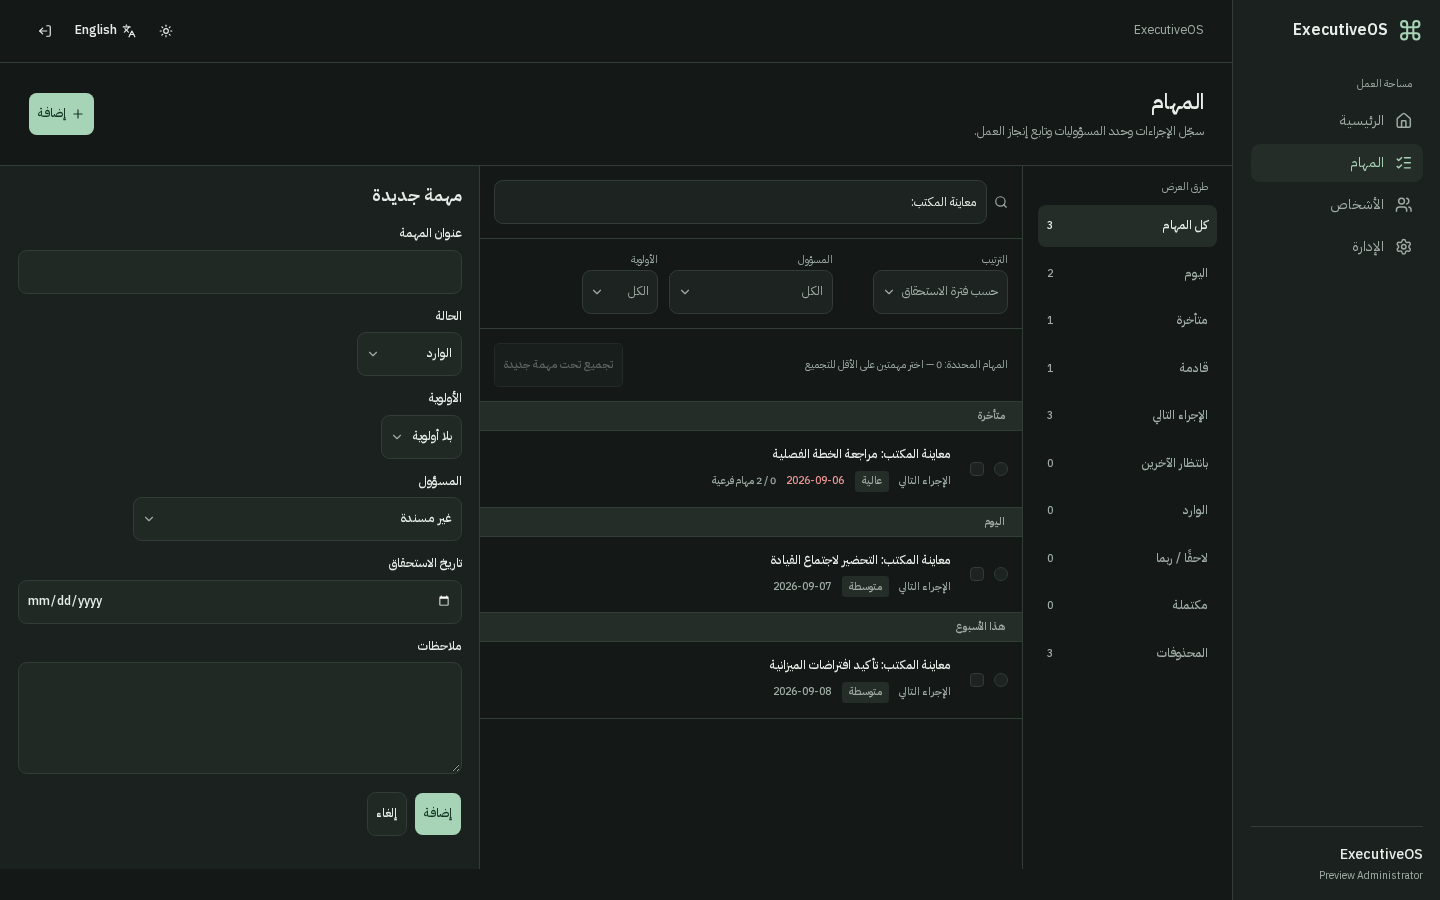
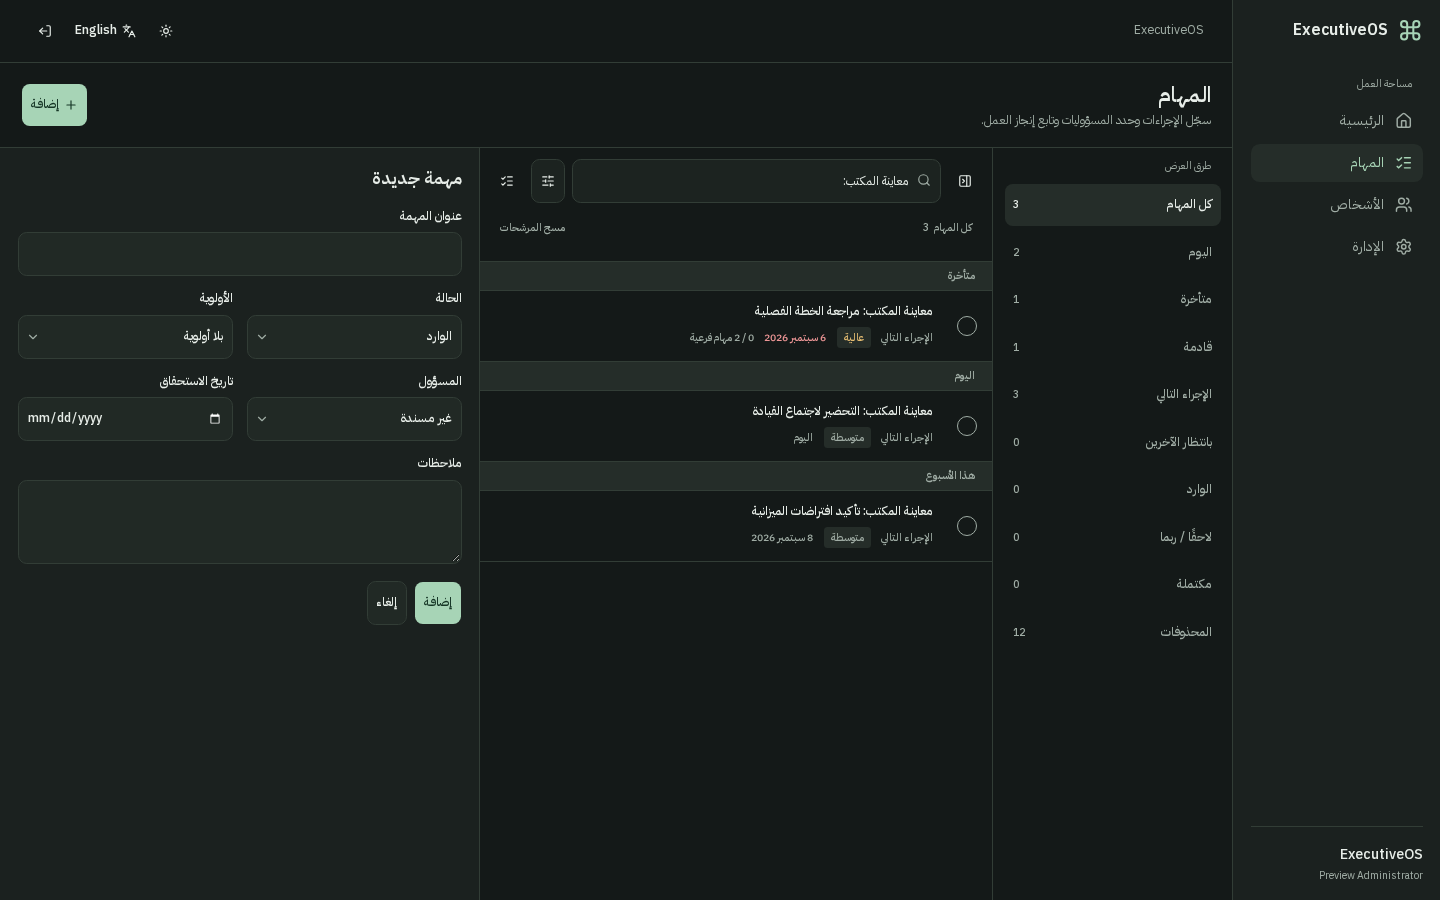
test(ui): cover task UX regressions and record bilingual visual audit

diff --git a/e2e/tasks.spec.ts b/e2e/tasks.spec.ts
@@ -100,7 +100,7 @@ for (const locale of ['en', 'ar'])
     await page
       .locator('aside.entity-detail')
       .getByRole('button', { name: m.common.delete, exact: true })
-      .first()
+      .last()
       .click();
     await page
       .getByRole('dialog')
@@ -149,6 +149,7 @@ test('TASKS-A05 TASKS-B09 group selected tasks through framework selection', asy
   for (const suffix of ['One', 'Two', 'Three'])
     children.push((await api(page, '', 'POST', { title: `${prefix} ${suffix}` })).body.data);
   await page.goto(`/tasks?view=all&q=${encodeURIComponent(prefix)}`);
+  await page.getByRole('button', { name: en.common.select, exact: true }).click();
   for (const child of children)
     await page.getByRole('checkbox', { name: `Select ${child.title}`, exact: true }).click();
   await page.getByRole('button', { name: en.tasks.group, exact: true }).click();
@@ -253,4 +254,119 @@ test('TASKS-B10 TASKS-B15 HOME-B01 assigned work appears in People and Home', as
   await expect(page).toHaveURL(new RegExp(`id=${task.id}`));
   await page.goto('/home');
   await expect(page.getByRole('link', { name: task.title, exact: true })).toBeVisible();
+});
+
+for (const locale of ['en', 'ar']) {
+  test(`EP-B03 EP-B06 EP-B07 EP-B08 EP-B15 EP-B17 filters, touch targets and focus ${locale}`, async ({
+    page,
+  }) => {
+    const m = locale === 'ar' ? ar : en;
+    await login(page, locale);
+    const task = (
+      await api(page, '', 'POST', { title: `UX ${crypto.randomUUID()}`, priority: 'low' })
+    ).body.data;
+    await page.setViewportSize({ width: 390, height: 844 });
+    await page.goto(`/tasks?view=all&q=${encodeURIComponent(task.title)}`);
+    await expect(page.getByRole('button', { name: m.tasks.group, exact: true })).toBeHidden();
+    const toggle = page.getByRole('checkbox', {
+      name: m.tasks.completeNamed.replace('{name}', task.title),
+      exact: true,
+    });
+    const bounds = await toggle.boundingBox();
+    expect(bounds?.width).toBeGreaterThanOrEqual(44);
+    expect(bounds?.height).toBeGreaterThanOrEqual(44);
+    const row = page.locator(`[data-row-id="${task.id}"]`);
+    expect((await row.boundingBox())?.y).toBeLessThan(320);
+    await row.focus();
+    await page.keyboard.press('x');
+    await expect(
+      page.getByRole('checkbox', {
+        name: m.common.selectItem.replace('{name}', task.title),
+        exact: true,
+      }),
+    ).toBeChecked();
+    await page.keyboard.press('Escape');
+    await expect(page).not.toHaveURL(/sel=/);
+    await row.click();
+    await expect(page.getByRole('button', { name: m.common.previous, exact: true })).toBeDisabled();
+    await expect(page.getByRole('button', { name: m.common.next, exact: true })).toBeDisabled();
+    await page.getByRole('button', { name: m.common.close, exact: true }).click();
+    await expect(row).toBeFocused();
+    await page.goto(`/tasks?view=all&priority=urgent&id=${task.id}`);
+    await expect(page.getByText(m.common.outside, { exact: true })).toBeVisible();
+    await page.getByRole('button', { name: m.common.showAll }).click();
+    await expect(page).toHaveURL(new RegExp(`view=all&id=${task.id}`));
+    await page.getByRole('button', { name: m.common.close, exact: true }).click();
+    await page.getByRole('button', { name: m.common.filter, exact: true }).click();
+    await page
+      .getByRole('dialog')
+      .getByLabel(m.tasks.priority, { exact: true })
+      .selectOption('urgent');
+    await page
+      .getByRole('dialog')
+      .getByRole('button', { name: m.common.close, exact: true })
+      .click();
+    await expect(page).toHaveURL(/priority=urgent/);
+    await page.getByRole('button', { name: m.common.clear, exact: true }).first().click();
+    await expect(page).not.toHaveURL(/priority=/);
+    for (const width of [320, 1024, 1280]) {
+      await page.setViewportSize({ width, height: 900 });
+      await page.goto(`/tasks?view=all&id=${task.id}`);
+      await expect(page.getByRole('heading', { name: task.title, exact: true })).toBeVisible();
+      expect(await page.evaluate(() => document.documentElement.scrollWidth > innerWidth)).toBe(
+        false,
+      );
+      if (width >= 1024)
+        expect(
+          (await page.locator('[data-entity-list]').boundingBox())?.width,
+        ).toBeGreaterThanOrEqual(300);
+    }
+  });
+}
+
+test('EP-B10 EP-B11 queued save failure blocks view changes and preserves the draft', async ({
+  page,
+}) => {
+  await login(page, 'en');
+  const task = (await api(page, '', 'POST', { title: `UX save ${crypto.randomUUID()}` })).body.data;
+  await page.goto(`/tasks?view=all&id=${task.id}`);
+  const title = page.getByLabel(en.tasks.title, { exact: true });
+  await title.fill('');
+  await page.getByLabel(en.tasks.description, { exact: true }).click();
+  await expect(page.getByRole('alert').filter({ hasText: en.common.titleRequired })).toBeVisible();
+  await title.fill(`${task.title} edited`);
+  await page.route(`**/api/v1/tasks/${task.id}`, async (route) => {
+    if (route.request().method() === 'PATCH') await route.abort();
+    else await route.continue();
+  });
+  await page.getByLabel(en.tasks.description, { exact: true }).click();
+  await page.getByRole('button', { name: en.tasks.inbox, exact: false }).first().click();
+  await expect(page.getByRole('dialog')).toContainText(en.common.unsaved);
+  await expect(title).toHaveValue(`${task.title} edited`);
+  await page.unroute(`**/api/v1/tasks/${task.id}`);
+  await page
+    .getByRole('dialog')
+    .getByRole('button', { name: en.common.retry, exact: true })
+    .click();
+  await expect(page).toHaveURL(/view=inbox/);
+  expect((await api(page, `/${task.id}`)).body.data.title).toBe(`${task.title} edited`);
+});
+
+test('EP-B01 EP-B02 search keeps typing focus, debounces and follows browser history', async ({
+  page,
+}) => {
+  await login(page, 'en');
+  const title = `UX search ${crypto.randomUUID()}`;
+  await api(page, '', 'POST', { title });
+  await page.goto('/tasks?view=all');
+  const search = page.getByRole('textbox', { name: en.common.search });
+  await search.pressSequentially(title, { delay: 10 });
+  await expect(search).toBeFocused();
+  await expect.poll(() => new URL(page.url()).searchParams.get('q')).toBe(title);
+  await expect(page.locator('[data-row-id]')).toHaveCount(1);
+  await page.locator('[data-row-id]').click();
+  await expect(page).toHaveURL(/id=/);
+  await page.goBack();
+  await expect(search).toHaveValue(title);
+  await expect(page).not.toHaveURL(/id=/);
 });

diff --git a/src/ui/entity/tests/neighbors.test.ts b/src/ui/entity/tests/neighbors.test.ts
@@ -1,0 +1,29 @@
+// @vitest-environment jsdom
+import { it, expect, vi } from 'vitest';
+import { renderHook, act } from '@testing-library/react';
+import { useEntityNeighbors } from '../use-entity-neighbors';
+import type { Entity, ListResult } from '../types';
+it('EP-B13 next at a loaded-page boundary waits for the next page then opens its first row', async () => {
+  const first: Entity = { id: 'first', revision: 1, deletedAt: null, deletedOpId: null };
+  const second: Entity = { ...first, id: 'second' };
+  const fetchMore = vi.fn().mockResolvedValue(undefined);
+  const navigate = vi.fn();
+  const initial: ListResult<Entity> = {
+    items: [first],
+    counts: {},
+    pending: false,
+    error: null,
+    more: true,
+    fetchMore,
+    refetch: vi.fn(),
+  };
+  const { result, rerender } = renderHook(
+    ({ list }) => useEntityNeighbors(list, first.id, navigate),
+    { initialProps: { list: initial } },
+  );
+  await act(async () => result.current.move(1));
+  expect(fetchMore).toHaveBeenCalledOnce();
+  expect(navigate).not.toHaveBeenCalled();
+  rerender({ list: { ...initial, items: [first, second], more: false } });
+  expect(navigate).toHaveBeenCalledWith({ id: second.id }, true);
+});

diff --git a/UX-HANDOFF.md b/UX-HANDOFF.md
@@ -1,0 +1,162 @@
+## Hand-off: Tasks UX foundation
+Status: complete — UX correction pass verified; inherited preview/spec gaps are listed below.
+
+### Plan
+- Inspect real Tasks list, detail and create in English/Arabic at desktop and mobile sizes.
+- Record interaction failures, not just styling preferences, in this hand-off.
+- Add regression scenarios for URL filters, keyboard selection, responsive panels and form feedback.
+- Improve shared entity layout, filtering, selection and navigation before module-specific presentation.
+- Improve Tasks readability, touch targets, property density and validation feedback.
+- Recheck People because it consumes the same framework.
+- Verify focused lint, types, dependency boundaries, PostgreSQL tests and browser workflows.
+- Capture screenshots and deploy the Docker preview; preserve existing records.
+- No migrations, new dependencies, accepted ADR edits or external services.
+
+### Assumptions
+1. This branch starts from feat/tasks-management, the running implementation; main still contains documentation only (docs/10, Implementer procedure §3).
+2. The user's explicit request authorizes UI interaction/layout fixes within existing Tasks and entity-page behaviors. No schema, auth or other escalation-triggering subsystem changes are planned (docs/10, Assumptions versus escalation).
+3. A collapsible views rail and filter sheet implement EP-B07/B08; exact spacing and breakpoint behavior are implementation choices (docs/05, Responsive behavior).
+
+### Baseline findings
+- Shared toolbar spends three rows on search, filters and inactive bulk actions; mobile list content starts too low.
+- Permanent selection and completion checkboxes are adjacent, tiny and visually ambiguous.
+- Shared 240px rail plus 480px panel leaves an unusably narrow list at smaller desktop widths.
+- Clear filters and Show in All retain facet filters; empty state fails to recognize facets.
+- Detail navigation does not disable unavailable neighbors; next-page action fetches without advancing.
+- Task property fields consume excessive vertical space; invalid blank title edits silently fail to save.
+- Group headers repeat under alternate sorting; row titles truncate useful context.
+- Close focus occurs before the mobile list becomes visible; keyboard arrows can leave detail unexpectedly.
+
+### Migrations
+None.
+
+### Confirmed findings and fixes
+| Severity | Finding / source | Change |
+|---|---|---|
+| Major | Two adjacent completion/selection controls and inactive bulk toolbar obscure the primary action (docs/features/entity-pages.md:52; docs/05-ui-guidelines.md:49). | Explicit selection mode; completion hidden during selection; 44px checkbox targets; keyboard x toggles selection. |
+| Major | Mobile filters and view controls consume excessive list space (entity-pages.md:57). | Search plus compact filter/selection controls; facets and views in a Base UI sheet, with active facet count. |
+| Major | Fixed rail/detail widths squeeze the list at small desktop sizes (entity-pages.md:56). | Rail auto-collapses below 1280px; detail uses up to 480px and half the workspace; wider desktops expose a rail toggle. |
+| Major | Clear filters and Show in All retain owner/priority facets (entity-pages.md:46,70). | One shared clear-filter operation clears every registered facet and selection; Show in All retains the requested id. Banner appears inside detail on mobile. |
+| Major | Save failure can be bypassed by view/row/create navigation (entity-pages.md:63). | Framework navigation and application links wait for the save queue and show Retry/Discard on failure; browser unload warns while a save is unresolved. |
+| Major | Save queue's revision can lag completion/reopen or lead rendered detail (tasks.md:46). | Delete uses the newest revision known to the editor or save queue. |
+| Major | Mobile close focuses a hidden list; arrows move focus out of detail (entity-pages.md:52,72). | Restore focus after the list renders; scope list arrows to the list state; disable unavailable previous/next controls. |
+| Major | Blank title edits silently fail (docs/05-ui-guidelines.md:40). | RHF/Zod localized title/description validation, visible errors, and native validity check before shared navigation. |
+| Major | Mobile shell navigation and detail transitions create horizontal overflow (docs/05-ui-guidelines.md:62). | Icon-over-label bottom navigation; independently scrolling work area clips its own slide transition. |
+| Major | Light-theme selected-row metadata fails contrast (docs/05-ui-guidelines.md, Accessibility). | Surface background plus accent outline replaces the tinted selected-row background. |
+| Minor | Task property and subtask fields waste vertical space (docs/05-ui-guidelines.md, Density). | Two-column property grid, full-width selects, shorter notes field, compact subtask action row; destructive parent action follows subtasks. |
+| Minor | Alternate sorts repeat misleading due-band headings (tasks.md, Views and sorting). | Shared framework only renders due groups under default ordering. |
+| Minor | ISO dates and truncated titles reduce readability (docs/05-ui-guidelines.md, Internationalization). | Localized Gregorian dates, Today label, two-line titles and priority emphasis using semantic tokens. |
+| Minor | Detail actions scroll away and saved status persists indefinitely (entity-pages.md:62). | Sticky detail toolbar, visible mobile Back label, Saved announcement expires after two seconds. |
+
+### Scope limits for propagation
+This is a UX correction pass over the existing preview, not completion of every deferred requirement from TASKS-HANDOFF.md. Do not infer full EP-B06/B10/B11/B13/B14/B17 compliance from the covered scenarios: range selection and bulk keyboard menu, conflict diff confirmation, blocking browser history traversal during a failed save, scroll-triggered paging, persisted group collapse, and create-draft navigation protection still need dedicated implementation. Normal browser Back and guarded framework/application-link navigation are covered separately. Owner options still use the preview's first 200 assignable people. No AI, new modules, schema migrations, drag/swipe interactions or auth changes were added.
+
+### Additional assumptions
+4. EP-B07 (docs/features/entity-pages.md:56): the nominal 480px detail width is a maximum at constrained desktop widths, and the collapsible rail starts hidden below 1280px. This preserves a usable list and is recorded for maintainer review.
+5. EP-B08 (docs/features/entity-pages.md:57): mobile detail uses the full entity workspace while retaining global shell controls and bottom navigation.
+6. docs/05-ui-guidelines.md:9: multi-line task rows may exceed the nominal row density so titles, ownership and dates remain readable; interactive targets are at least 44px.
+
+
+### Summary
+The Tasks page now uses the shared framework for a compact responsive list, explicit selection mode, filter sheet, debounced URL search, guarded save navigation and focus restoration. Tasks use larger completion targets, readable dates/titles, denser properties and subtasks, and localized text-field validation. The same layout fixes apply to People and its browser regressions pass. This does not certify the entire previously incomplete Phase 1/2 specification.
+
+### Requirement → scenario
+Coverage below describes the exercised behavior, not blanket completion of each ID.
+
+| ID | Test file | Scenario / coverage |
+|---|---|---|
+| EP-B01, EP-B02 | e2e/tasks.spec.ts | Search keeps typing focus, debounces and follows browser history; existing URL precedence tests remain. |
+| EP-B03 | src/ui/entity/tests/filter-state.test.ts; e2e/tasks.spec.ts | Show in All preserves the deep link and clears all facets; banner visible on mobile. |
+| EP-B06 | e2e/tasks.spec.ts | Keyboard x selection, Escape clears selection, list focus restoration; range/bulk shortcuts remain deferred. |
+| EP-B07, EP-B08, EP-B09 | e2e/tasks.spec.ts; tools/capture-tasks.mjs | Usable list width at 1024/1280, filter sheet, mobile detail, en/ar and no horizontal overflow at 320/390. |
+| EP-B10 | e2e/tasks.spec.ts; src/ui/entity/tests/save-queue.test.ts | Queued failure retains draft; explicit retry saves; conflict reapply preserves untouched fields; two-second saved announcement. Diff confirmation remains deferred. |
+| EP-B11 | e2e/tasks.spec.ts | Failed save blocks view change, Retry persists edit before continuing. Normal browser Back is separately tested; failed-save history blocking remains deferred. |
+| EP-B13 | src/ui/entity/tests/neighbors.test.ts | Next at a loaded-page boundary fetches before opening the next row; scroll-triggered paging remains deferred. |
+| EP-B15 | src/ui/entity/tests/filter-state.test.ts; e2e/tasks.spec.ts | Facet-aware empty state and complete filter clearing. |
+| EP-B17 | e2e/tasks.spec.ts | Close returns focus to the visible row; unavailable previous/next actions are disabled. |
+| TASKS-A01, TASKS-A03, TASKS-A04, TASKS-B08, TASKS-B15 | e2e/tasks.spec.ts | Create/edit, subtasks, completion/reopen, parent delete/restore in en/ar, desktop/mobile. |
+| TASKS-A05, TASKS-B09 | e2e/tasks.spec.ts | Enter explicit selection mode, select tasks, group under a named parent. |
+| TASKS-A09, TASKS-B12 | e2e/tasks.spec.ts; src/ui/entity/tests/save-queue.test.ts | Stale editor retry and correct revisions through queued edits / later actions. |
+| PEOPLE-B01/B02/B03/B06, PEOPLE-A05 | e2e/preview.spec.ts | Existing create/edit/duplicate/trash/restore regressions pass with the shared layout. |
+| docs/05 touch/RTL/accessibility | e2e/tasks.spec.ts; tools/capture-tasks.mjs | 44px completion control, 48 combinations of list/detail/create × en/ar × four viewports × two themes, axe and overflow assertions. |
+
+### Files changed
+- `src/ui/entity`: shared layout, controls, filter/search state, selection, keyboard/focus, save/link guard and regression tests.
+- `src/ui/primitives`: reusable Base UI sheet variant and full-width native selects.
+- `src/ui/layout`, `src/ui/tokens.css`: shared shell navigation rendering, safe-area mobile navigation and transition bounds.
+- `src/modules/tasks/ui`: text validation, compact properties/subtasks, readable rows, completion targets and grouping eligibility.
+- `src/core/i18n/messages`: matching English/Arabic control and validation messages.
+- `e2e/tasks.spec.ts`, `tools/capture-tasks.mjs`: regression scenarios and repeatable visual/accessibility matrix.
+- `docs/screenshots/tasks-*`: refreshed 12 baseline images plus 36 light/narrow/tablet variants. No accepted ADR or prose specification was changed.
+
+### Audits and verification
+- Docker production build: passes; existing instrumentation/Node and backup dynamic-import warnings remain.
+- TypeScript: passes.
+- Dependency boundaries: passes (251 modules, 776 dependencies at final check).
+- Focused ESLint on entity framework, Tasks UI, new shell links, primitives and capture script: passes. The shell retains its existing logout navigation warning.
+- Unit/integration suite: 56 tests passed; the additional rendered React pagination regression also passed (57 total). PostgreSQL integration tests use the separate `_test` database.
+- Playwright: all 18 scenarios passed, including existing People/Admin regressions.
+- Screenshots: 48/48 pass; no horizontal document overflow, serious/critical axe violations or browser runtime errors.
+- `pnpm audit:all` is not green. It stops on inherited oversized jobs/People/Admin/Auth functions and the existing shell logout navigation warning. No rules were disabled or weakened. Remaining runtime audit-script gaps from the original preview are still documented in HANDOFF.md.
+
+### Manual verification
+en desktop ✔ / ar desktop ✔ / en 390px ✔ / ar 390px ✔. Also checked 320px and 1024px in both themes; browser scenarios measure usable list width at 1280px. Screenshots use invented task records and a query that excludes existing user tasks. Existing application data was not reset.
+
+### Run / inspect
+The local preview is running at **http://localhost:3000/tasks?view=all**. Use your existing account; local preview credentials remain in ignored `tmp/PREVIEW-LOGIN.md`.
+
+From the repository:
+```sh
+docker compose up -d --build
+```
+For this workspace's existing tooling container:
+```sh
+docker exec executiveos-wi0001-tooling pnpm typecheck
+docker exec executiveos-wi0001-tooling node --env-file=.env.test node_modules/vitest/vitest.mjs run
+docker exec executiveos-wi0001-tooling pnpm exec playwright test --config tools/playwright-docker.config.ts
+docker exec executiveos-wi0001-tooling node tools/capture-tasks.mjs
+```
+Open `docs/screenshots/tasks-list-ar-mobile.png`, `tasks-detail-en-tablet-light.png`, or any `tasks-<list|detail|create>-<en|ar>-<desktop|mobile|narrow|tablet>[-light].png`. The screenshot runner creates and soft-deletes only its own fixtures.
+
+### Open questions
+No permission is pending. Before propagating the framework as feature-complete, schedule the remaining scenario gaps listed under Scope limits for propagation. The conservative responsive width assumptions above need maintainer review alongside this work.
+
+### Repository-wide audit output
+```text
+> executiveos@0.1.0 audit:all /workspace
+> pnpm lint && pnpm typecheck && pnpm depcruise && pnpm audit:structure && pnpm audit:i18n && pnpm audit:portability && pnpm audit:docs && pnpm audit:schema && pnpm audit:tests && pnpm audit:deps && pnpm audit:secrets && pnpm test && pnpm build && pnpm audit:bundle && pnpm test:e2e && pnpm audit:openapi && pnpm audit:a11y && pnpm audit:perf && pnpm audit:dupes
+
+
+> executiveos@0.1.0 lint /workspace
+> eslint . --max-warnings=0
+
+
+/workspace/src/core/db/jobs-repo.ts
+  42:8   error  Async function 'claim' has too many lines (71). Maximum allowed is 60  max-lines-per-function
+  43:27  error  Async arrow function has too many lines (69). Maximum allowed is 60    max-lines-per-function
+
+/workspace/src/core/jobs/runner.ts
+  9:8  error  Function 'startRunner' has too many lines (61). Maximum allowed is 60  max-lines-per-function
+
+/workspace/src/modules/people/ui/PersonForm.tsx
+  29:8  error  Function 'PersonForm' has too many lines (99). Maximum allowed is 60  max-lines-per-function
+
+/workspace/src/modules/users/ui/AdminDataPage.tsx
+  21:8  error  Function 'AdminDataPage' has too many lines (93). Maximum allowed is 60  max-lines-per-function
+  21:8  error  Function 'AdminDataPage' has a complexity of 15. Maximum allowed is 12   complexity
+
+/workspace/src/modules/users/ui/UsersPage.tsx
+  92:8  error  Function 'UsersPage' has too many lines (61). Maximum allowed is 60  max-lines-per-function
+
+/workspace/src/ui/layout/AppShell.tsx
+  29:7  warning  Do not use `location.assign()` to navigate to internal Next.js pages. Use `redirect()` in the render phase, or `useRouter().push()` in Client Components' event handlers instead. See: https://nextjs.org/docs/messages/no-location-assign-relative-destination  @next/next/no-location-assign-relative-destination
+
+/workspace/src/ui/layout/AuthForm.tsx
+  29:8  error  Function 'AuthForm' has too many lines (127). Maximum allowed is 60  max-lines-per-function
+  29:8  error  Function 'AuthForm' has a complexity of 15. Maximum allowed is 12    complexity
+
+✖ 10 problems (9 errors, 1 warning)
+
+ ELIFECYCLE  Command failed with exit code 1.
+ ELIFECYCLE  Command failed with exit code 1.
+```
